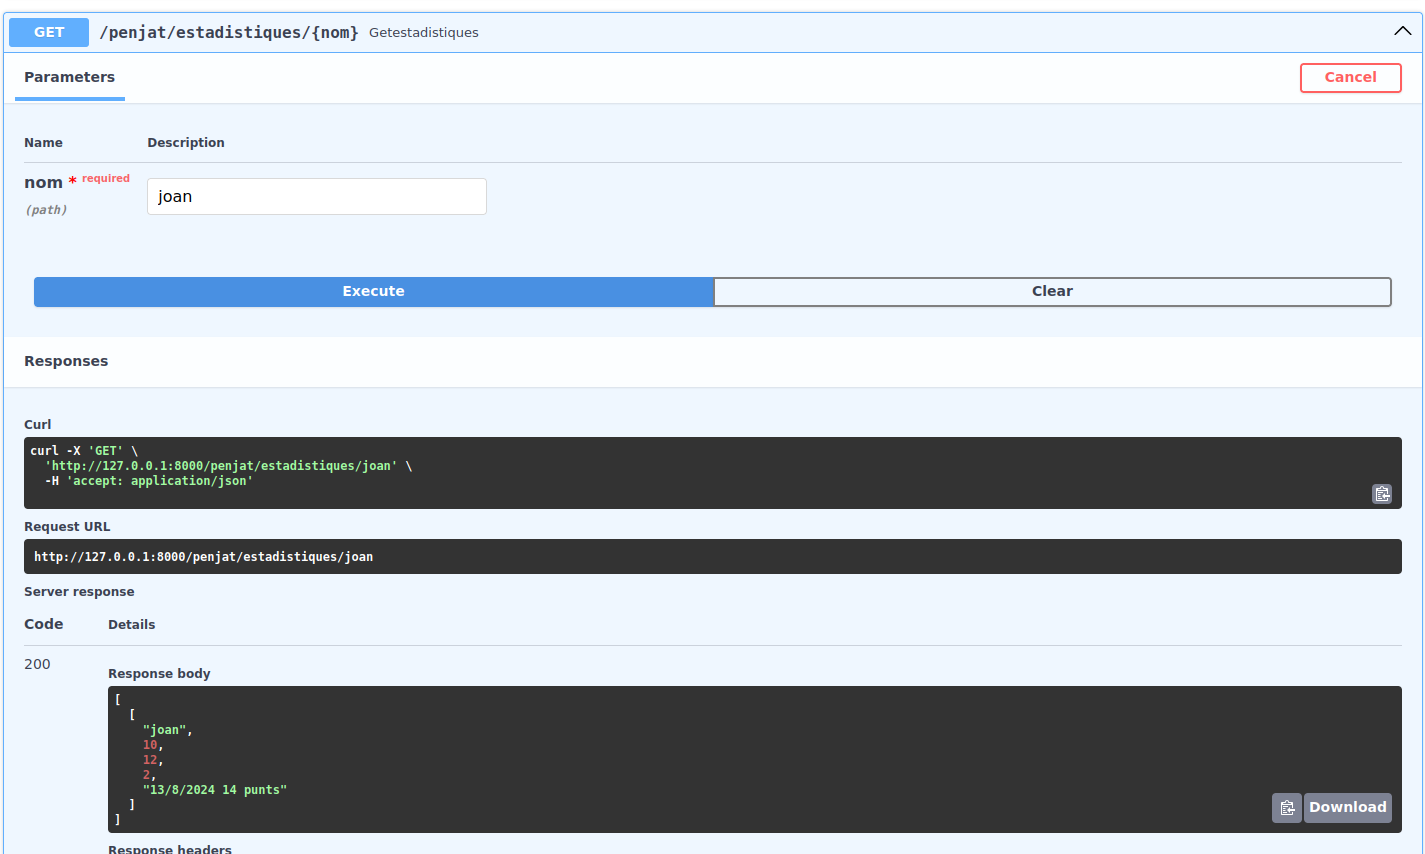
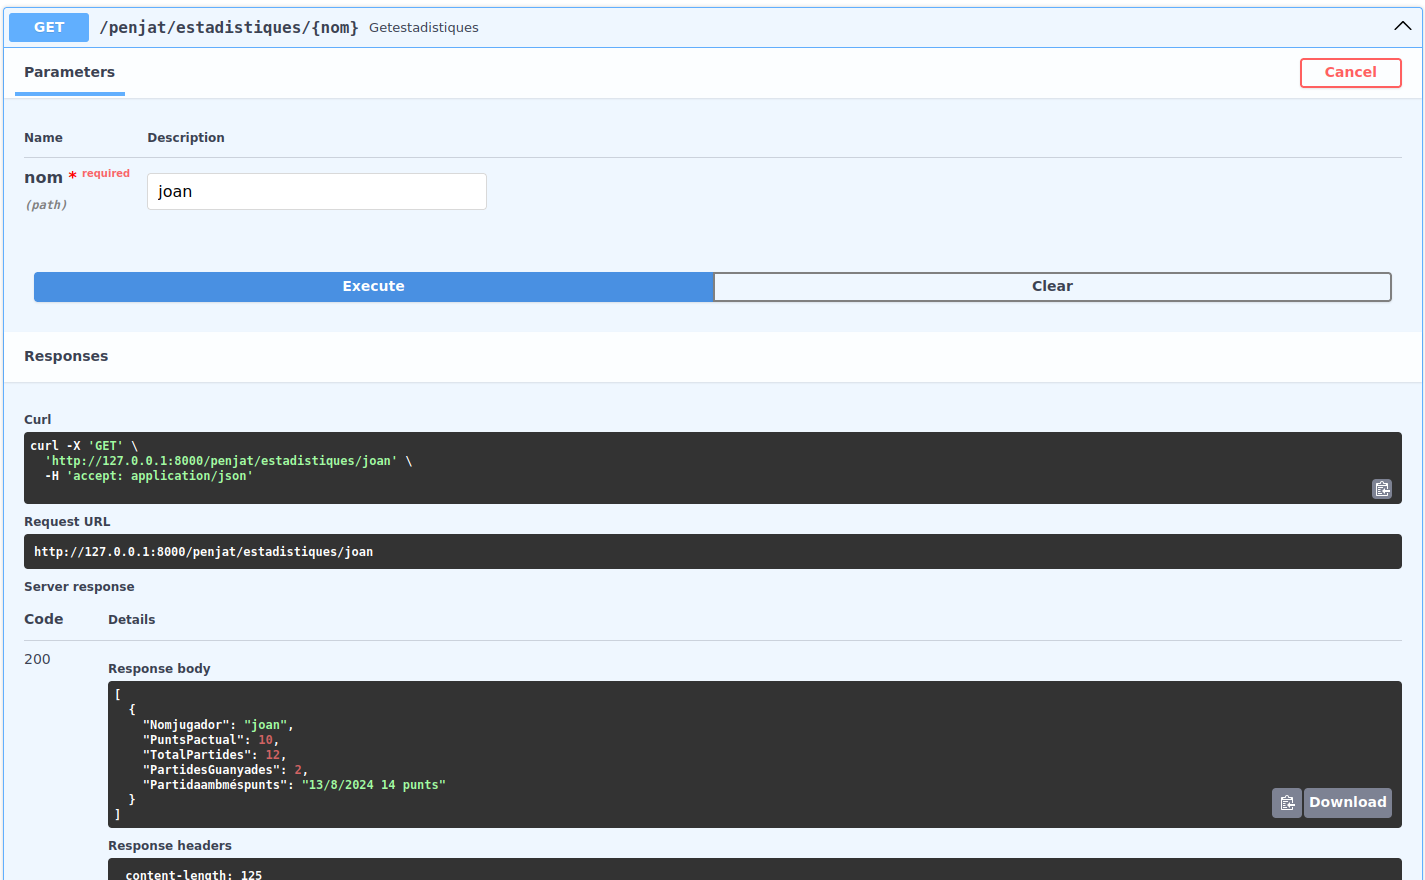
Correcions finals

diff --git a/activitat11/main.py b/activitat11/main.py
@@ -3,8 +3,8 @@ from fastapi import FastAPI
 from conn import getConn
 from crud import textbtn, textdisplayinicial, postintent, estadistiquesjoc, updateEstadisticas
 from crud.lletresabecedari import getabecedaris
-from schemas.schemaabc import abcschema
 from schemas.schematextinicial import schemainitialtext
+from schemas.statsschema import statsschemas
 from schemas.textbtnschema import schemabuttontext
 
 app = FastAPI()
@@ -24,13 +24,13 @@ async def getParaulaComensar(idioma):
 async def postIntent(numerointent,estatpartida,encertada,fallada,lletrautilitzada,idjugador):
     return postintent.postintentmethod(connexio,numerointent,estatpartida,encertada,fallada,lletrautilitzada,idjugador)
 
-@app.get("/penjat/abecedari/{idioma}")
+@app.get("/penjat/abecedari/{idioma}",response_model=list)
 async def getAbecedari(idioma):
     return getabecedaris(idioma,connexio)
 
 @app.get("/penjat/estadistiques/{nom}",response_model=list)
 async def getEstadistiques(nom):
-    return estadistiquesjoc.getEstadistiquesdeljoc(connexio,nom)
+    return statsschemas(estadistiquesjoc.getEstadistiquesdeljoc(connexio,nom))
 
 @app.put("/penjat/estadistiques/")
 async def actualitzarEstadistiques(nomjugador,puntspartidaactual,totalpartides,partidesguanyades,partidaambmespunts):

diff --git a/activitat11/schemas/statsschema.py b/activitat11/schemas/statsschema.py
@@ -1,5 +1,9 @@
 def statschema(stat):
-    return {"Lletra":stat}
+    return {"Nomjugador":stat[0],
+            "PuntsPactual":stat[1],
+            "TotalPartides":stat[2],
+            "PartidesGuanyades":stat[3],
+            "Partidaambméspunts":stat[4]}
 
 def statsschemas(statics) -> list[dict]:
     return [statschema(stat) for stat in statics]
